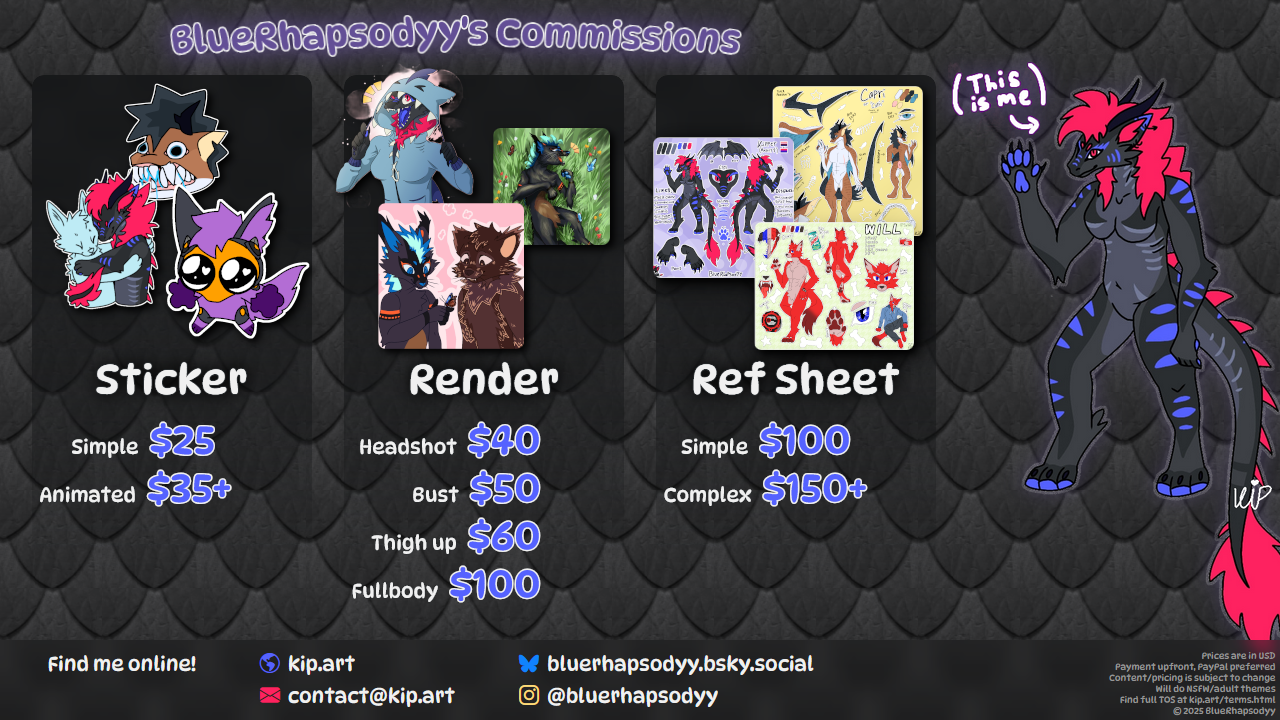
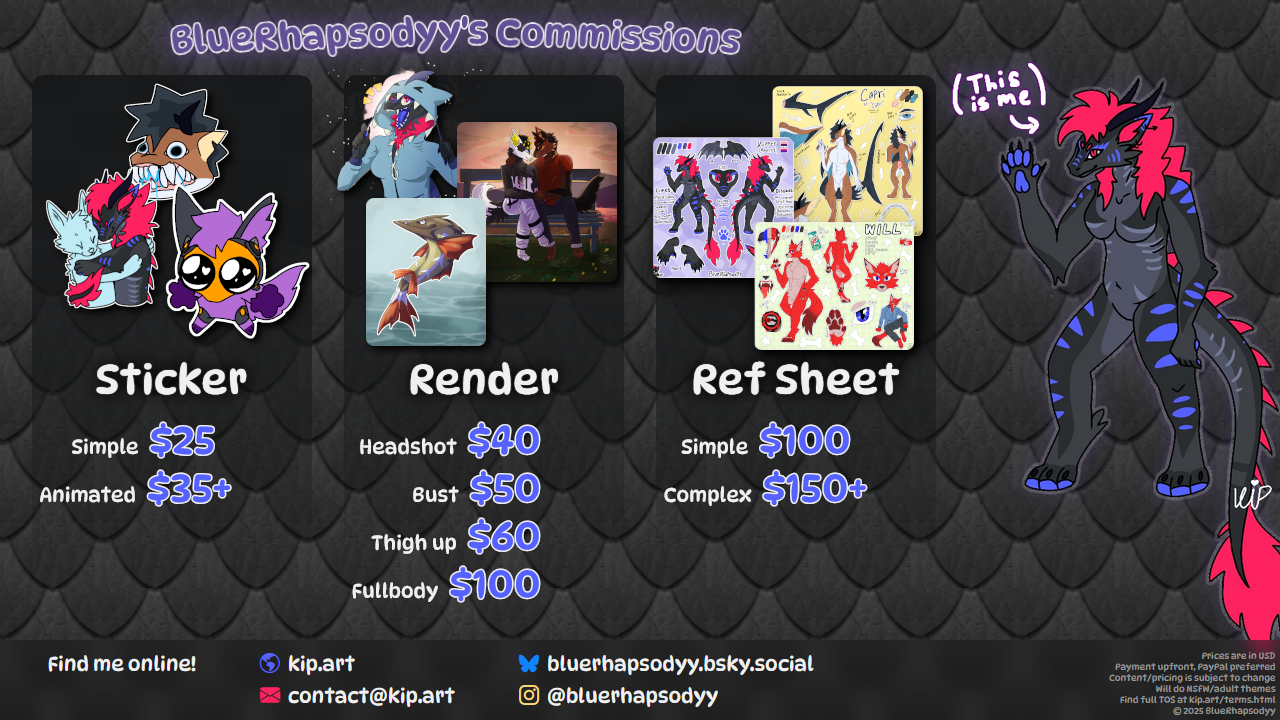
update commission sheet, include in about section

Changed region(s): [[0.25, 0.0917, 0.5, 0.4889]]

diff --git a/docs/style.css b/docs/style.css
@@ -793,4 +793,71 @@ nav > ul > li.active:hover > a {
     transform: scale(1.25);
 }
 
+.aboutSheetContainer {
+    border-radius: 12px;
+    border-width: 4px;
+    border-color: var(--color-kip-dark4);
+    border-style: solid;
+
+    max-width: var(--content-width);
+    box-sizing: border-box;
+
+    margin-top: 24px;
+
+    filter: drop-shadow(0 0 8px black);
+    overflow: hidden;
+
+    cursor: pointer;
+}
+
+.aboutSheetContainer:hover::after {
+    content: "View Commission Sheet";
+    color: var(--color-kip-white);
+    -webkit-text-stroke: 3px var(--color-kip-purple);
+    paint-order: stroke fill;
+    background-color: rgba(0, 0, 0, 0.75);
+    top: 0;
+    left: 0;
+    right: 0;
+    bottom: 0;
+    position: absolute;
+
+    display: flex;
+    align-items: center;
+    justify-content: center;
+
+    font-size: 32px;
+
+    animation-name: aboutSheetAnim;
+    animation-duration: 0.1s;
+    animation-iteration-count: 1;
+    animation-fill-mode: both;
+
+    text-shadow: 0 0 12px rgba(0, 0, 0, 0.75);
+}
+
+.aboutSheet {
+    display: block;
+    width: 100%;
+    border-radius: 12px;
+
+    transition: transform 0.1s ease, filter 0.1s ease;
+
+    aspect-ratio: 1280/720;
+}
+
+.aboutSheetContainer:hover > .aboutSheet {
+    transform: scale(1.025);
+    filter: blur(5px);
+}
+
+@keyframes aboutSheetAnim {
+    0% {
+        opacity: 0;
+    }
+    100% {
+        opacity: 1;
+    }
+}
+
 /* #endregion About */

diff --git a/docs/index.html b/docs/index.html
@@ -592,6 +592,11 @@
                             </div>
                         </div>
                     </div>
+
+                    <p>You can also share my commission sheet with others!</p>
+                    <div class="aboutSheetContainer" onclick="onClickAboutSheet()">
+                        <img class="aboutSheet" src="img/sheet.png" />
+                    </div>
                 </div>
                 <div class="lastContentSectionGradient"></div>
             </section>

diff --git a/docs/index.js b/docs/index.js
@@ -543,3 +543,7 @@ function openCommissionDetailsDialogFromQuery() {
     onClickCommissionSlate(slateEl);
 }
 openCommissionDetailsDialogFromQuery();
+
+function onClickAboutSheet() {
+    spawnGalleryDialog(`img/sheet.png`, "", true);
+}
